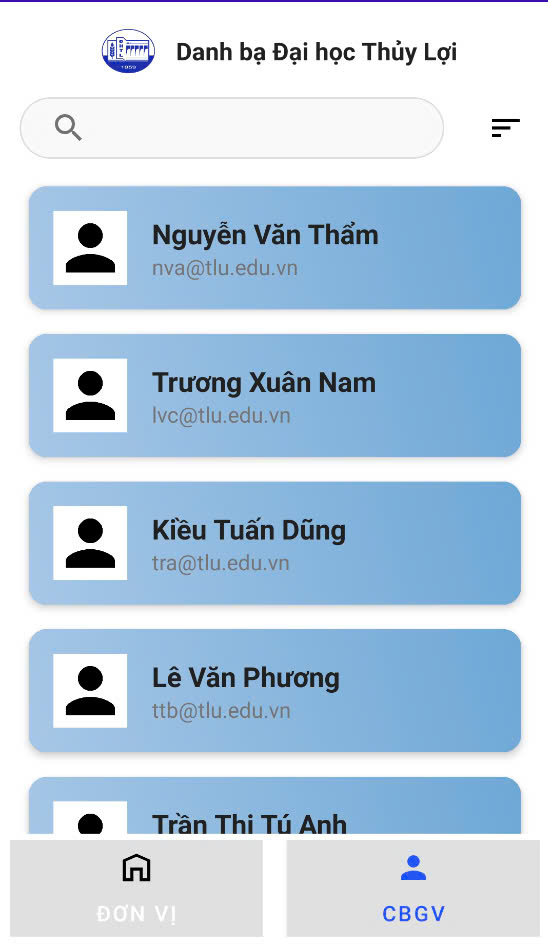
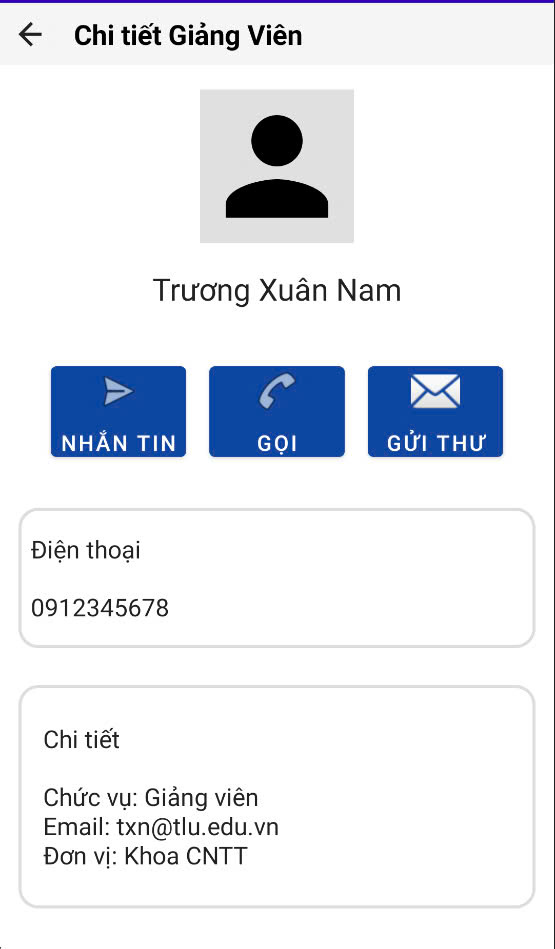
Update

diff --git a/TLUcontact/app/src/main/java/com/example/tlucontact/activities/MainActivity.java b/TLUcontact/app/src/main/java/com/example/tlucontact/activities/MainActivity.java
@@ -31,7 +31,8 @@ public class MainActivity extends AppCompatActivity {
     private List<Unit> unitList;
     private List<Employee> employeeList;
     private boolean isSorted = false;
-//    private boolean showingUnits = true;
+
+    private boolean isShowingUnits = true;
 
     private UnitDAO unitDAO;
     private EmployeeDAO employeeDAO;
@@ -69,7 +70,8 @@ public class MainActivity extends AppCompatActivity {
 
                 btnUnits.setSelected(true);
                 btnEmployees.setSelected(false);
-                loadUnits();
+            isShowingUnits = true;
+            loadUnits();
 
         });
 
@@ -77,7 +79,8 @@ public class MainActivity extends AppCompatActivity {
 
                 btnEmployees.setSelected(true);
                 btnUnits.setSelected(false);
-                loadEmployees();
+            isShowingUnits = false;
+            loadEmployees();
 
         });
 
@@ -123,8 +126,9 @@ public class MainActivity extends AppCompatActivity {
             Employee employee = (Employee) contact;
             intent.putExtra("type", "employee");
             intent.putExtra("name", employee.getName());
-            intent.putExtra("phone", employee.getPhone());
             intent.putExtra("position", employee.getPosition());
+            intent.putExtra("phone", employee.getPhone());
+
             intent.putExtra("email", employee.getEmail());
             intent.putExtra("unit", employee.getUnit());
         }
@@ -156,19 +160,34 @@ public class MainActivity extends AppCompatActivity {
     // Lọc danh sách liên lạc theo tên
     private void filterContacts(String query) {
         List<Object> filteredList = new ArrayList<>();
-        List<?> currentList = contactList.containsAll(unitList) ? unitList : employeeList;
 
-        for (Object contact : currentList) {
-            String name = contact instanceof Unit ? ((Unit) contact).getName() : ((Employee) contact).getName();
-            if (name.toLowerCase().contains(query.toLowerCase())) {
-                filteredList.add(contact);
+        if (isShowingUnits) {
+            for (Unit unit : unitList) {
+                if (unit.getName().toLowerCase().contains(query.toLowerCase())) {
+                    filteredList.add(unit);
+                }
+            }
+        } else {
+            for (Employee employee : employeeList) {
+                if (employee.getName().toLowerCase().contains(query.toLowerCase())) {
+                    filteredList.add(employee);
+                }
             }
         }
 
-        contactList.clear();
-        contactList.addAll(filteredList);
-        contactAdapter.notifyDataSetChanged();
+        if (query.isEmpty()) {
+            if (isShowingUnits) {
+                loadUnits();
+            } else {
+                loadEmployees();
+            }
+        } else {
+            contactList.clear();
+            contactList.addAll(filteredList);
+            contactAdapter.notifyDataSetChanged();
+        }
     }
+
 
 
 

diff --git a/TLUcontact/app/src/main/java/com/example/tlucontact/data/SampleData.java b/TLUcontact/app/src/main/java/com/example/tlucontact/data/SampleData.java
@@ -24,12 +24,13 @@ public class SampleData {
         }
 
         if (employeeDAO.getAllEmployees().isEmpty()) {
-            employeeDAO.addEmployee("Nguyễn Văn Thẩm", "Giảng viên", "0912345678", "nva@tlu.edu.vn", "Khoa CNTT");
-            employeeDAO.addEmployee("Trương Xuân Nam", "Giảng viên", "0912345678", "lvc@tlu.edu.vn", "Khoa CNTT");
-            employeeDAO.addEmployee("Kiều Tuấn Dũng", "Giảng viên", "0912345678", "tra@tlu.edu.vn", "Khoa CNTT");
-            employeeDAO.addEmployee("Lê Văn Phương", "Trưởng khoa", "0987654321", "ttb@tlu.edu.vn", "Khoa Kinh tế");
-            employeeDAO.addEmployee("Trần Thị Tú Anh", "Giảng viên", "0923456789", "pvd@tlu.edu.vn", "Khoa Luật");
+            employeeDAO.addEmployee("Nguyễn Văn Thẩm", "Khoa CNTT", "Giảng viên", "0912345678", "nvt@tlu.edu.vn");
+            employeeDAO.addEmployee("Trương Xuân Nam", "Khoa CNTT", "Giảng viên", "0912345678", "txn@tlu.edu.vn");
+            employeeDAO.addEmployee("Kiều Tuấn Dũng", "Khoa CNTT", "Giảng viên", "0912345678", "ktd@tlu.edu.vn");
+            employeeDAO.addEmployee("Lê Văn Phương", "Khoa Kinh tế", "Trưởng khoa", "0987654321", "lvp@tlu.edu.vn");
+            employeeDAO.addEmployee("Trần Thị Tú Anh", "Khoa Luật", "Giảng viên", "0923456789", "tta@tlu.edu.vn");
         }
+
 
 
     }

diff --git a/TLUcontact/app/src/main/java/com/example/tlucontact/activities/ContactDetailActivity.java b/TLUcontact/app/src/main/java/com/example/tlucontact/activities/ContactDetailActivity.java
@@ -32,6 +32,7 @@ public class ContactDetailActivity extends AppCompatActivity {
         String type = getIntent().getStringExtra("type");
         String phone = getIntent().getStringExtra("phone");
         String email = getIntent().getStringExtra("email");
+
         tvName.setText(getIntent().getStringExtra("name"));
         tvPhone.setText(phone);
 
